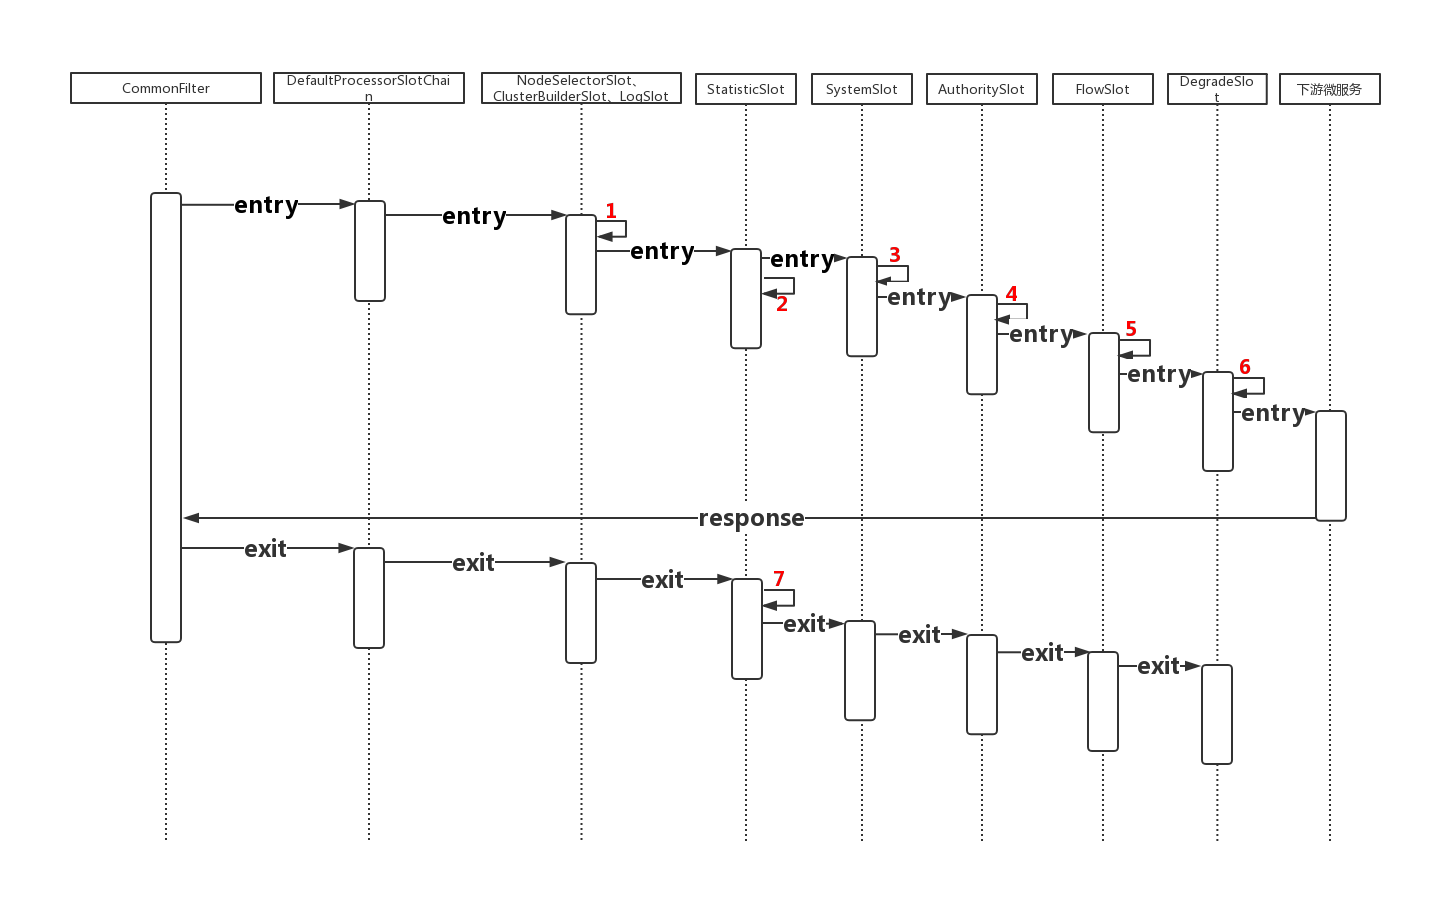
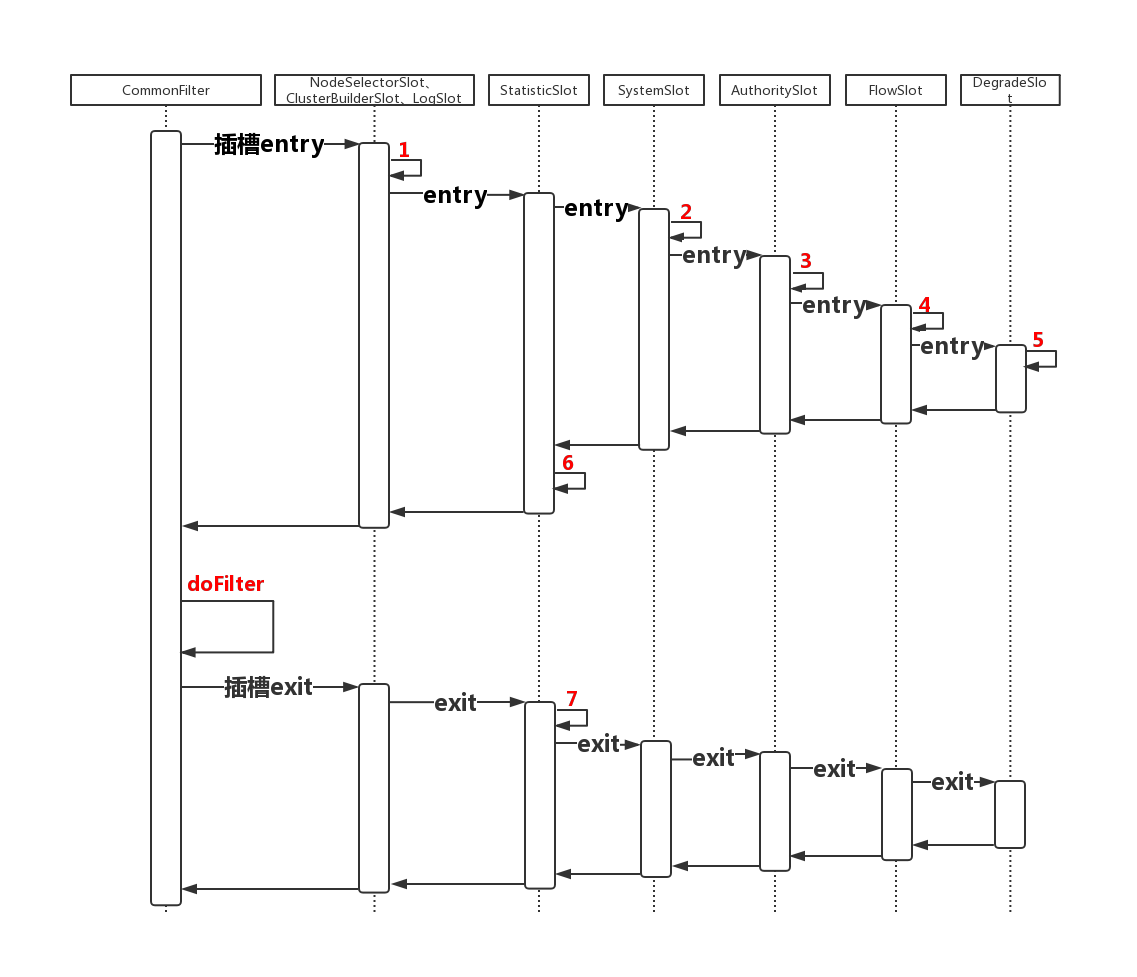
1

diff --git a/_posts/2019-10-29-rate-limit.md b/_posts/2019-10-29-rate-limit.md
@@ -1,0 +1,172 @@
+---
+layout: post
+title: "限流"
+date: 2019-10-29 15:36:00 +0000
+category:
+  - java
+tags:
+  - 限流
+comment: false
+reward: false
+excerpt: 常见限流算法，sentinel与hystrix分析。
+---
+
+## 一、限流算法
+
+常见的限流算法有：计数器、漏桶、令牌桶。
+
+### 1.1 计数器
+
+![counter](https://raw.githubusercontent.com/yizhishi/yizhishi.github.io/master/images/rate-limit/counter.jpg)
+
+计数器限流，指固定的时间窗口内可以通过的一定数量的请求，超过这个数量后，接下来的请求会被拒绝。比如1s内可以通过60个请求，超过60个后，新来的请求会被拒绝。
+
+计数器算法可以“简单粗暴”的实现限流，但是存在“突刺现象”，如上图中最后1秒所示，60个请求集中在1s的前一小部分，导致剩余的大部分时间的请求都被拒绝。
+
+### 1.2 漏桶
+
+![leaky-bucket](https://raw.githubusercontent.com/yizhishi/yizhishi.github.io/master/images/rate-limit/leaky-bucket.jpg)
+
+如上图，水进入漏桶里，然后按固定速率流出。因为水流出的速率是固定的，所以当请求过多，装满漏桶后，会出现溢出。
+
+这个算法的核心是：缓存请求、匀速处理、多余的请求丢弃。
+
+### 1.3 令牌桶
+
+![token-bucket](https://raw.githubusercontent.com/yizhishi/yizhishi.github.io/master/images/rate-limit/token-bucket.jpg)
+
+令牌桶算法按速率往桶里放token，如果桶里token已满，就不再增加；放token操作和取token操作互不影响。
+
+请求到来时尝试从桶中取token，如果取到token，请求放行；如果没有取到token，请求在队列中被缓存。
+
+<!--令牌桶有3个变量：
+
+- 桶的容量，关系到可以存放的token数量。
+- 放token的速率，与取token。
+- token消耗，由请求决定。
+
+对令牌桶算法而言，如果突发流量的时间比较短，token没有被取光，整体上系统不会有影响；如果突发流量比较大，时间比较长，token被取光，多余的请求就会被限制。
+
+令牌桶算法的令牌以固定速率产生，并缓存到令牌桶中；令牌桶放满时，多余的令牌被丢弃；请求要消耗等比例的令牌才能被处理；令牌不够时，请求被缓存。
+
+相比漏桶算法，令牌桶算法不同之处在于它不但有一只“桶”，还有一个队列，这个桶是用来存放令牌的，队列才是用来存放请求的。
+
+从作用上来说，漏桶和令牌桶算法最明显的区别就是是否允许突发流量的处理，漏桶算法能够强行限制数据的实时处理速率，对突发流量不做额外处理；而令牌桶算法能够在限制数据的平均传输速率的同时允许某种程度的突发处理。
+-->
+
+与漏桶算法相比，令牌桶算法在突发流量到来时，可以同时取走多个token，有token就可以处理请求。如果突发流量的时间比较短，token没有被取光，整体上系统不会有影响，在处理突发流量方面要比漏桶好一些。
+
+## 二、Sentinel
+
+### 2.1 Sentinel的插槽时序
+
+![sentinel](https://raw.githubusercontent.com/yizhishi/yizhishi.github.io/master/images/rate-limit/sentinel.png)
+
+sentinel的插槽工作时序如上图（以sentinel与zuul集成为例），通过`CommonFilter`，按插槽的构建顺序调用每个插槽的`entry`和`exit`方法：
+
+- 1 `NodeSelectorSlot`收集资源的路径，并将这些资源的调用路径以树状结构存储起来，用于根据调用路径进行流量控制；`ClusterBuilderSlot`构建资源的 `ClusterNode`；`LogSlot`记录异常，以便定位问题。
+- 2 `SystemSlot`根据配置的系统规则和系统当前的整体情况，对系统进行保护。
+- 3 `AuthoritySlot`根据配置的授权规则，对请求进行黑/白名单校验。
+- 4 `FlowSlot`根据配置的流控规则，对请求进行流控处理。
+- 5 `DegradeSlot`根据配置的流控规则，对请求进行降级处理。
+- 6 `StatisticSlot#entry`，`StatisticSlot`是Sentinel的核心功能插槽之一，用于统计实时的调用数据。
+  - 6.1. 新的请求到来，对`DefaultNode`的`thread count`和`pass count`进行add操作。
+  - 6.2. 插槽链上，位置在`StatisticSlot`之后的插槽的`entry`方法出现异常（如流控、降级校验不通过会扔出`BlockException`），如果异常类型是`BlockException`对`DefaultNode`的`block count`进行add操作；如果不是，对`exception count`进行add操作。
+- 7 `StatisticSlot#exit`
+  - 7.1 计算rt，`rt = 当前时间 - 请求进入插槽的时间`，单位是毫秒，此处设置rt不大于4900（可以通过jvm启动参数：`-Dcsp.sentinel.statistic.max.rt=xxx`来修改）。
+  - 7.2 对`DefaultNode`的`response time`和`success count`进行了add操作，对`thread count`进行了decrease操作。
+
+### 2.2 Sentinel的流控
+
+Sentinel的流控在`FlowSlot#entry`中处理，流控规则分为QPS和线程数，是当QPS或者线程数超过某个阈值，采取措施进行流量控制。
+
+#### 2.2.1 QPS限流
+
+流控规则是QPS时，监控指标是node的`pass count`，即一秒内到来到的请求，当`pass count`超过规则阈值时，对流量进行控制。
+
+#### 2.2.2 线程数限流
+
+流控规则是线程数时，监控指标是node的`thread num`，即当前处理该资源的线程数，如果`thread num`超过规则阈值时，对流量进行控制。
+<!--
+如果流控规则是QPS，node的`passQps + 1 > 流控规则设置的值`时，请求被限流；如果流控规则是线程数，node的`thread num + 1 > 流控规则设置的值`时，请求被限流。
+-->
+
+### 2.3 Sentinel的降级
+
+Sentinel的降级在`DegradeSlot#entry`中处理，降级规则分为rt（response time）和异常两种类型，异常又细化为异常比例和异常数。
+
+#### 2.3.1 rt（response time）降级
+
+计算node的平均响应时间（avgRt），`avgRt = rt  / success count`，当1s内持续进入5个请求，对应时刻的avgRt均超过阈值，那么在接下的时间窗口之内，对这个方法的调用都会自动地熔断。
+
+#### 2.3.2 异常降级
+
+异常降级分为异常数和异常比例两种，异常数降级是node的`exception > 设置的值`时，请求被降级；异常比例降级是node的`exception / success > 设置的值`且`每秒请求量≥5`时，请求被降级。
+
+*异常降级针对业务异常，不包括`BlockException`。*
+
+## 三、Hystrix
+
+<!--
+Hystrix：
+
+- 使用命令模式将所有对外部服务（或依赖关系）的调用包装在`HystrixCommand`或`HystrixObservableCommand`对象中，并将该对象放在单独的线程中执行。
+- 每个依赖都维护着一个线程池（或信号量），线程池被耗尽则拒绝请求（而不是让请求排队）。
+- 记录请求成功，失败（客户端扔异常），超时和线程拒绝。
+- 服务错误百分比超过了阈值，熔断器开关自动打开，一段时间内停止对该服务的所有请求。
+- 请求失败，被拒绝，超时或熔断时执行降级逻辑。
+
+与zuul网关配置使用时，默认的隔离策略是信号量，信号量允许的值时100
+-->
+
+Hystrix为我们提供了信号量隔离、线程池隔离、熔断和降级，来构建稳定、可靠的分布式系统。
+
+### 3.1 信号量隔离
+
+信号量的实现是一个简单的计数器，是`TryableSemaphore`接口的具体实现`TryableSemaphoreActual`，当请求进入熔断器时，执行`TryableSemaphore#tryAcquire`，计数器加1，结果大于阈值的话，就返回false，发生信号量拒绝事件，执行降级逻辑。当请求离开熔断器时，执行`TryableSemaphore#release`，计数器减1。
+
+### 3.2 线程池隔离
+
+最终，在调用下游微服务时，是由另外的线程`hystrix-RibbonCommand-x`来完成的（`AbstractCommand#executeCommandWithSpecifiedIsolation`），由此来实现线程分离，从而达到资源隔离的作用。当线程池来不及处理并且请求队列塞满时，新进来的请求将快速失败，可以避免依赖问题扩散。
+
+线程池和信号量都支持熔断和限流。相比线程池，信号量不需要线程切换，因此避免了不必要的开销。但是信号量不支持异步，也不支持超时，也就是说当所请求的服务不可用时，信号量会控制超过限制的请求立即返回，但是已经持有信号量的线程只能等待服务响应或从超时中返回，即可能出现长时间等待。线程池模式下，当超过指定时间未响应的服务，Hystrix会通过响应中断的方式通知线程立即结束并返回。
+
+### 3.3 熔断
+
+![hystrix-circuit-breaker](https://raw.githubusercontent.com/wiki/Netflix/Hystrix/images/circuit-breaker-1280.png)
+
+`HystrixCircuitBreaker`接口有3个方法`allowRequest`
+、`isOpen`和`markSuccess`，分别用来判断请求是否可以通行、断路器是否打开和闭合断路器。
+`HystrixCircuitBreakerImpl`是熔断器的实现，定义了`allowSingleTest`方法用来检测服务是否恢复。
+
+熔断器的几个方法如下：
+
+- `HystrixCircuitBreakerImpl#allowRequest`，判断请求是否被允许。
+  - 如果熔断器配置是强制打开（配置项`circuitBreaker.forceOpen`为true），拒绝请求。
+  - 如果熔断器配置是强制关闭（配置项`circuitBreaker.forceClosed`为true），运行放行。调用`HystrixCircuitBreakerImpl#isOpen`执行断路器的计算逻辑，用来模拟断路器打开/关闭的行为。
+  - 其他情况下，通过`HystrixCircuitBreaker#isOpen`和`HystrixCircuitBreakerImpl#allowSingleTest`来判断是否允许请求。
+- `HystrixCircuitBreakerImpl#isOpen`，判断熔断器开关是否打开。
+  - 如果断路器打开标识`circuitOpen`是true，返回`circuitOpen`。
+  - 如果总请求数或错误比率在设置的阈值比例内，返回false，断路器处于未打开状态。
+  - 如果上一步的条件都不满足，将断路器打开。
+- `HystrixCircuitBreakerImpl#allowSingleTest`判断是否允许单个请求通行，检查依赖服务是否恢复。
+
+  - 如果熔断器打开，且距离熔断器打开的时间或上一次试探请求放行的时间超过`circuitBreaker.sleepWindowInMilliseconds`的值时，熔断器器进入半开状态，允许放行一个试探请求；否则，不允许放行。
+
+总结，请求到来时：
+
+- 如果断路器不允许通过，短路；
+- 如果断路器允许通过，但是信号量tryAcquire失败，请求被拒绝；信号量tryAcquire成功，放行。
+
+### 3.4 降级
+
+Hystrix在以下几种情况下会走降级逻辑，保护当前服务不受依赖服务的影响：
+
+- `HystrixCommand#construct`或`HystrixCommand#run`抛出异常
+- 熔断器打开
+- 命令的线程池和队列或信号量的容量超额，命令被拒绝
+- 命令执行超时
+
+参考：  
+[Nginx限速模块初探](https://zhuanlan.zhihu.com/p/32391675)  
+[Sentinel介绍](https://github.com/alibaba/Sentinel/wiki/%E4%BB%8B%E7%BB%8D)  

diff --git a/_posts/todo.md b/_posts/todo.md
@@ -1,7 +1,9 @@
 
 # things to do
 
-- 10月27之前完成高级人工智能论文。
+- ~~10月27之前完成高级人工智能论文。~~
+- 10月2，bp算法及下次课预习。
+- 10月2，银行的py画图作业。
 - 11月15，导师双选表格。
 - 11月23，英语4级口试（11月18日打印准考证）。
 - 12月14，英语4级笔试（11月18日打印准考证）。
